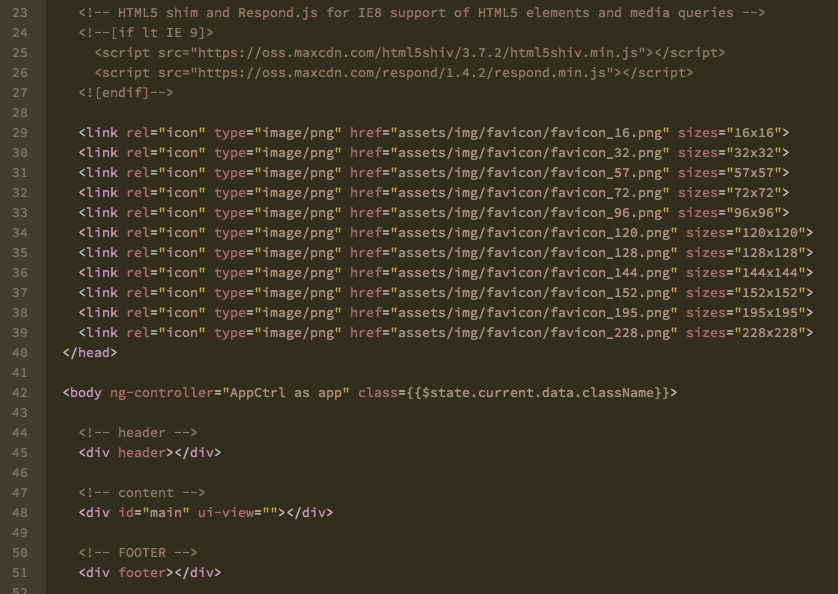
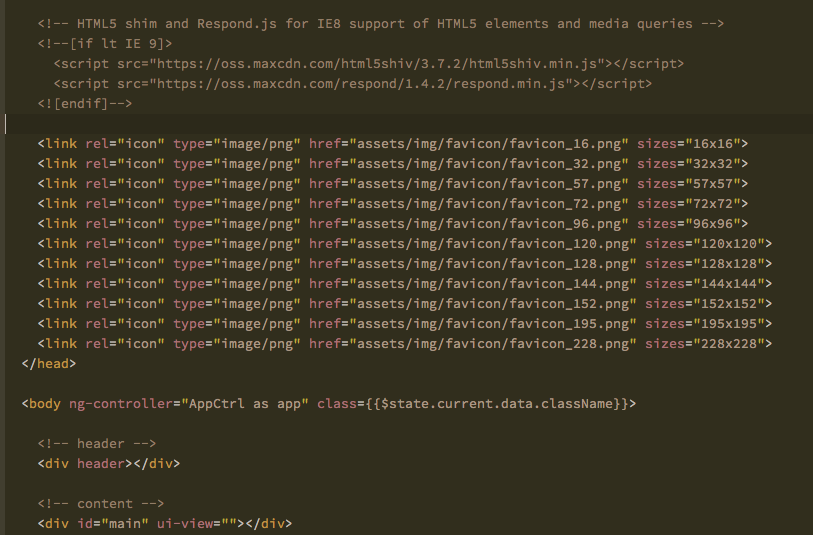
fix html tag color

Changed region(s): [[0.0, 0.0, 0.984, 1.0]]

diff --git a/styles/base.less b/styles/base.less
@@ -240,7 +240,11 @@ atom-text-editor .search-results .marker.current-result .region,
     color: @keywords;
   }
 
-  &.name.tag, &.name.tag.scss  {
+  &.name.tag  {
+    color: @keywords;
+  }
+
+&.name.tag.scss  {
     color: @characters;
   }
 
